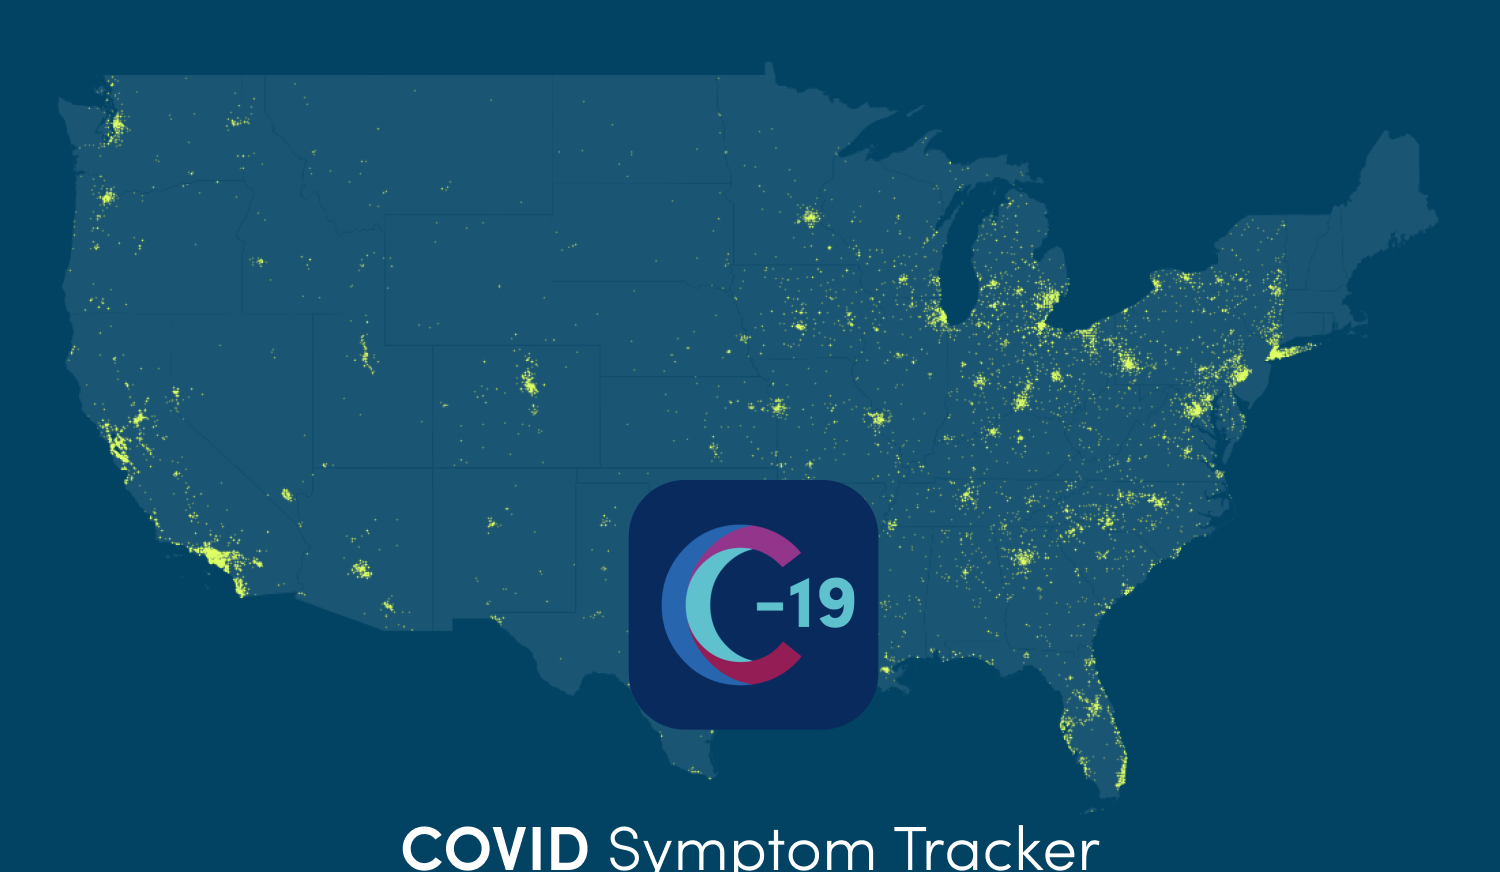
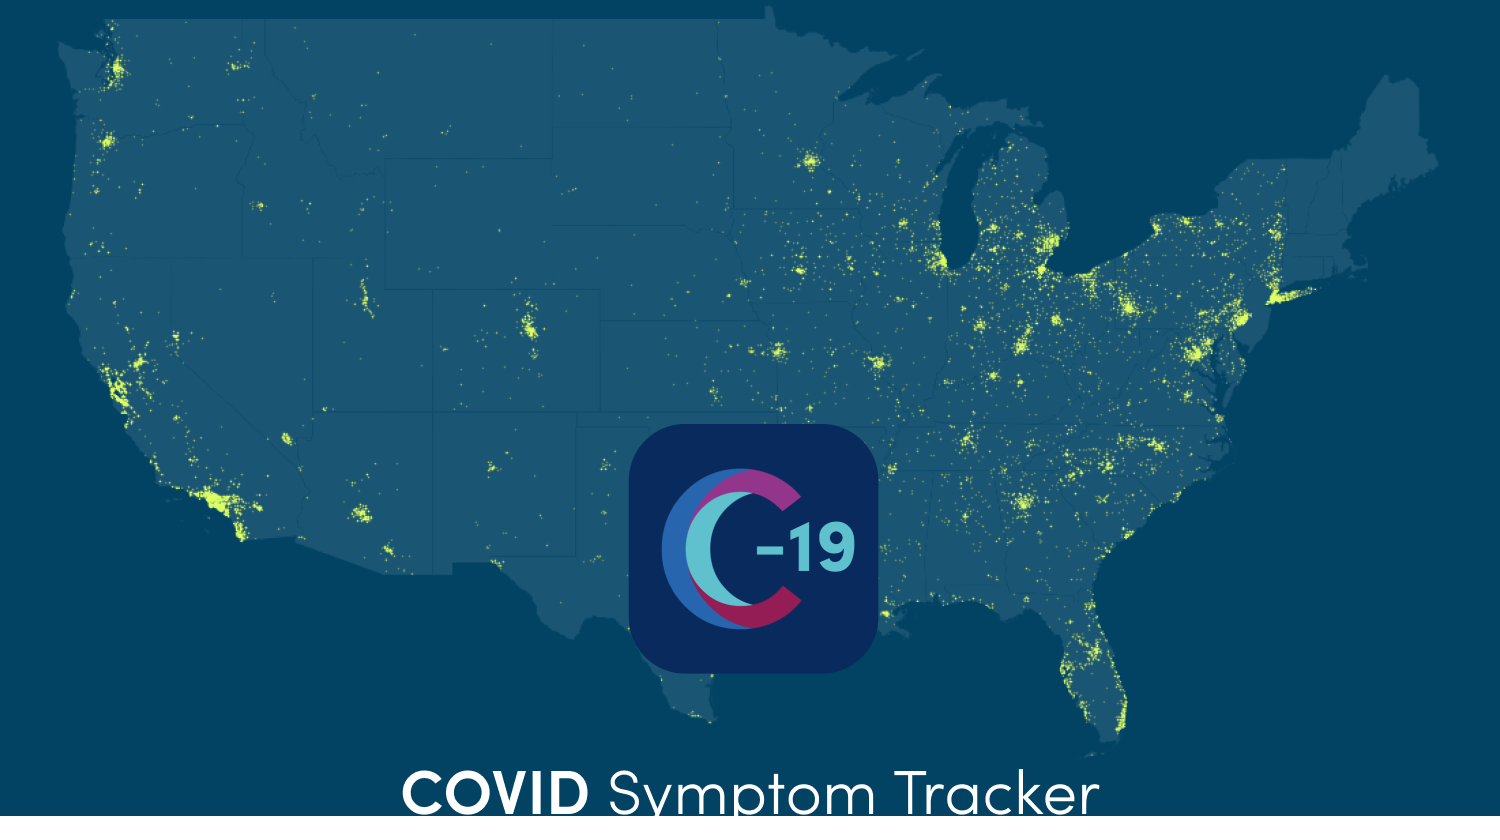
Improved styles for US home

diff --git a/src/features/register/Welcome1USScreen.tsx b/src/features/register/Welcome1USScreen.tsx
@@ -45,13 +45,11 @@ export class Welcome1USScreen extends Component<PropsType, WelcomeUSScreenState>
 
                     <View style={styles.covidContainer}>
                         <View style={styles.headerRow}>
+
                             <TouchableOpacity onPress={() => this.props.navigation.navigate('CountrySelect', {patientId: null})}>
                                 <Image style={styles.flagIcon} source={flagIcon()}/>
                             </TouchableOpacity>
 
-                            <View style={styles.loginContainer}>
-                                <ClickableText style={styles.login} onPress={() => this.props.navigation.navigate('Login')}>Sign in</ClickableText>
-                            </View>
                         </View>
                         <View style={styles.usMapContainer}>
                             <Image style={styles.usMap} source={usMap} resizeMode="contain"/>
@@ -62,7 +60,9 @@ export class Welcome1USScreen extends Component<PropsType, WelcomeUSScreenState>
                             <RegularText style={styles.subtitle}>
                                 Take 1 minute each day and help fight the outbreak in your community.
                             </RegularText>
-                            <ContributionCounter variant={1} count={this.state.userCount}/>
+                            <View style={styles.contributors}>
+                                <ContributionCounter variant={1} count={this.state.userCount}/>
+                            </View>
                         </View>
 
 
@@ -98,14 +98,9 @@ const styles = StyleSheet.create({
     },
 
     headerRow: {
+        flex:1,
         flexDirection: "row",
-        justifyContent: "space-between",
-        alignItems: "center",
-    },
-
-    loginContainer: {
-        alignSelf: "center",
-        fontWeight: "300",
+        justifyContent: "flex-end",
     },
 
     covidIcon: {
@@ -119,59 +114,21 @@ const styles = StyleSheet.create({
     },
 
     covidContainer: {
-        paddingHorizontal: 24,
-        paddingBottom: 24,
-        paddingTop: 48
+        paddingHorizontal: 14,
+        paddingBottom: 14,
+        paddingTop: 14
     },
-    usMapContainer: {},
+    
     usMap: {
-        height: 250,
+        height: 200,
         width: '100%',
         resizeMode: 'contain',
         alignSelf: "center",
     },
-    partners: {
-        flex: 1,
-        backgroundColor: "#ffffff",
-        borderTopRightRadius: 20,
-        borderTopLeftRadius: 20,
-        padding: 32,
-        justifyContent: "space-between",
-        alignContent: "center",
-    },
-
-    partnerHeader: {
-        textAlign: "center",
-    },
-
-    partnerList: {
-        marginTop: 0,
-        textAlign: "center",
-    },
-
-    login: {
-        color: "#FFFFFF",
-        fontWeight: "700",
-    },
-
-    title: {
-        color: "#FFFFFF",
-        textAlign: "center",
-        fontSize: 32,
-        paddingVertical: 10,
-    },
-
-    subheader: {
-        color: "#ffffff",
-        textAlign: "center",
-        fontSize: 14,
-        fontWeight: "300",
-        lineHeight: 20,
-    },
 
     subtitle: {
         color: "#FFFFFF",
-        fontSize: 36,
+        fontSize: 32,
         lineHeight: 48,
         paddingVertical: 24,
         textAlign: "center",
@@ -179,43 +136,18 @@ const styles = StyleSheet.create({
         fontWeight: "300",
     },
 
-    noAdvice: {
-        color: colors.primary,
-        textAlign: "center",
-        marginVertical: 20,
-    },
-    nhsWebsite: {
-        color: colors.secondary,
-        textDecorationLine: "underline"
-    },
+
     purpleSlash: {
         color: colors.purpleAccent,
     },
-    partnersLogoContainer: {
-        padding: 10,
-        borderRadius: 10,
-        borderWidth: 2,
-        borderColor: colors.backgroundSecondary,
-    },
-    partnersLogo: {
-        height: 60,
-        width: '95%',
-        resizeMode: 'contain',
-        alignSelf: "center",
-    },
+
     flagIcon: {
         height: 32,
         width: 32
     },
-    moreInfo: {
-        textAlign: "center",
-        lineHeight: 20,
-        fontSize: 14,
-        color: colors.primary
-    },
-    moreInfoHighlight: {
-        color: colors.purpleAccent,
-        lineHeight: 20,
-        fontSize: 14,
+
+    contributors: {
+        marginTop:20,
+        marginHorizontal:10
     }
 });

diff --git a/src/components/ContributionCounter.tsx b/src/components/ContributionCounter.tsx
@@ -10,7 +10,7 @@ export const ContributionCounter = (props: ContributionCounterProps) => {
         const countValue = I18n.toNumber(props.count, {precision: 0});
         return props.variant === 1 ?
                 <RegularText style={styles.contributingText}>
-                    Join <RegularBoldText style={styles.contributingText}>{countValue}</RegularBoldText> people contributing
+                    Join <RegularBoldText style={styles.contributingTextValue}>{countValue}</RegularBoldText> people contributing
                 </RegularText>
             : props.variant === 2 ?
                 <RegularText style={styles.contributingText}>
@@ -23,8 +23,14 @@ export const ContributionCounter = (props: ContributionCounterProps) => {
 
 const styles = StyleSheet.create({
     contributingText: {
-        fontSize: 16,
-        lineHeight: 24,
+        fontSize: 24,
+        lineHeight: 32,
+        color: '#5D879C',
+        textAlign: "center",
+    },
+    contributingTextValue: {
+        fontSize: 24,
+        lineHeight: 32,
         color: '#ffffff',
         textAlign: "center",
     }
